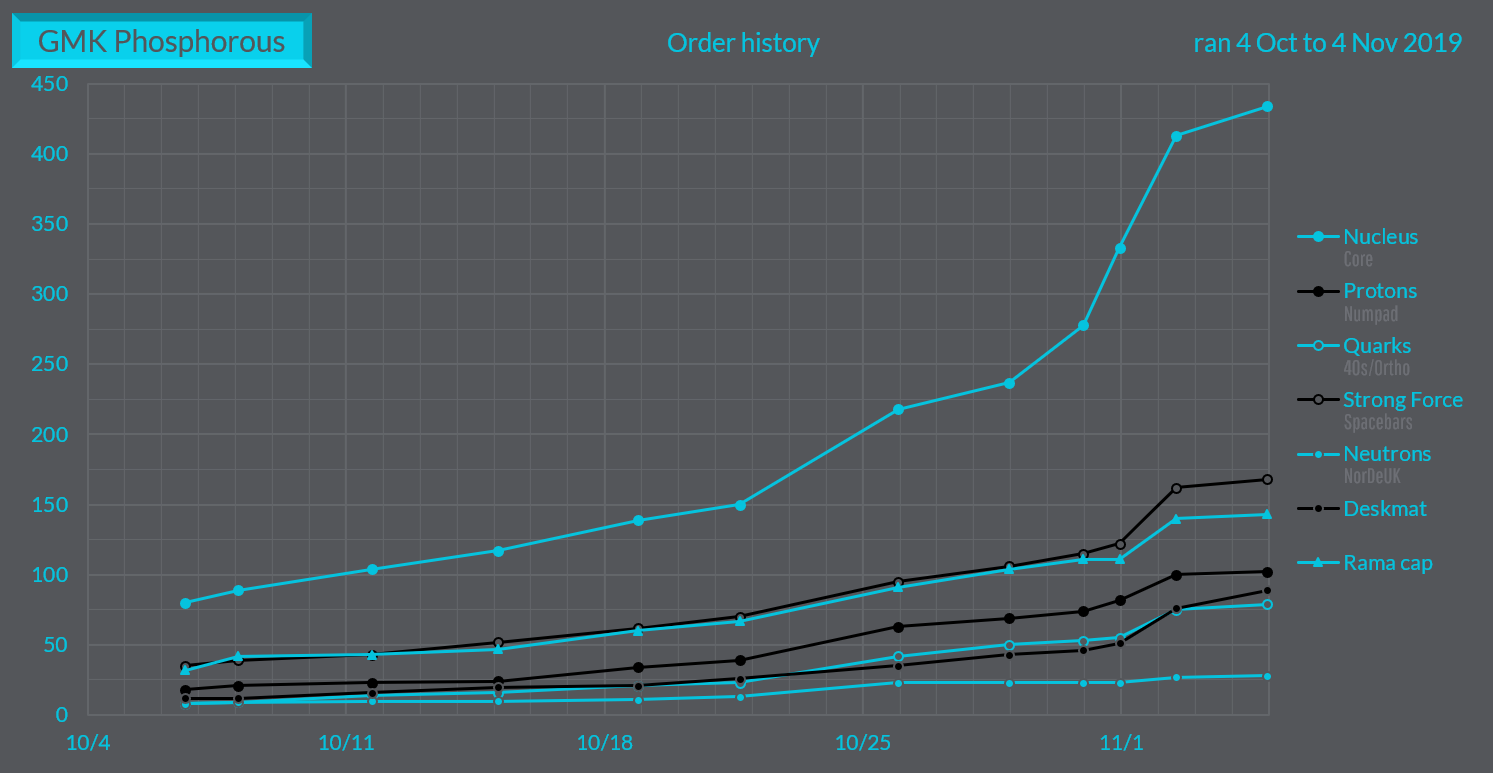
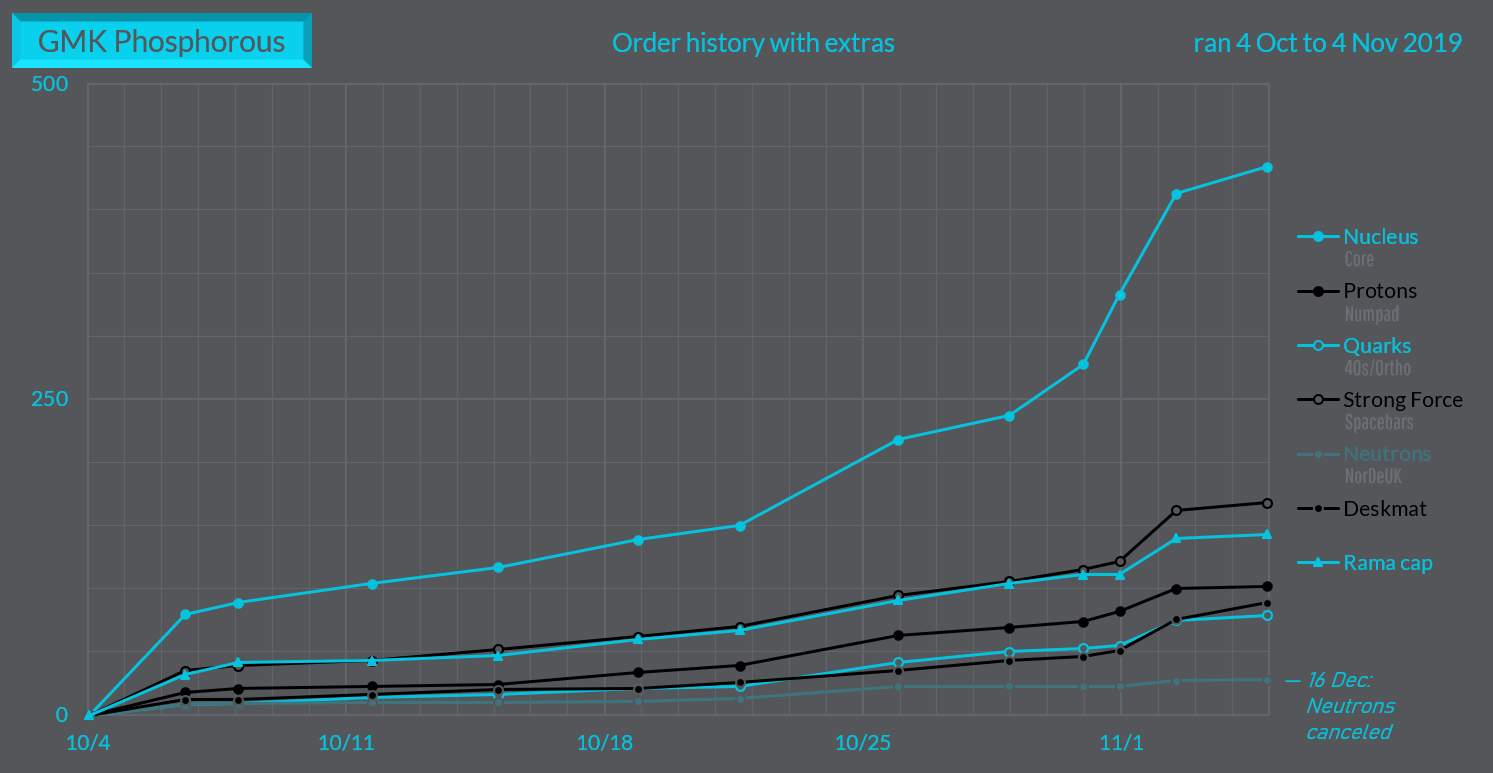
There are 5 files have been modified at 2020-09-28 12:26:14 . 	-rw-rw-r--. 1 jzou jzou 135866 Sep 17 12:56 assets/images/gmk-keycaps/phosphorous/history.png 	-rw-rw-r-- 1 jzou jzou 2064 Sep 28 12:23 docs/gmk-keycaps/Beta.md 	-rw-rw-r-- 1 jzou jzou 2444 Sep 28 12:21 docs/gmk-keycaps/Ishtar.md 	-rw-rw

diff --git a/docs/gmk-keycaps/Prepress.md b/docs/gmk-keycaps/Prepress.md
@@ -21,37 +21,39 @@ NOTE: USD to CNY exchange rate is 6.99
 
 | Name          | Price(GH)    |  Price(CNY) | Quantity |
 | ------------- | ------------ |  ---------- | -------- |
-|[Base](#base)|149.99|1048.43|Unknown|
-|[Separation](#separation)|49.99|349.43|Unknown|
-|[Poster Alphas](#poster-alphas)|69.99|489.23|Unknown|
-|[Novelties](#novelties)|59.99|419.33|Unknown|
-|[Tradition](#tradition)|34.99|244.58|Unknown|
-|[Overruns](#overruns)|29.99|209.63|Unknown|
+|[Base](#base)|149.99|1048.43|317|
+|[Separation](#separation)|49.99|349.43|166|
+|[Poster Alphas](#poster-alphas)|69.99|489.23|121|
+|[Novelties](#novelties)|59.99|419.33|172|
+|[Tradition](#tradition)|34.99|244.58|116|
+|[Overruns](#overruns)|29.99|209.63|107|
 
+<img src="{{ 'assets/images/gmk-keycaps/prepress/history.png' | relative_url }}" alt="history" class="image featured">
+<img src="{{ 'assets/images/gmk-keycaps/prepress/order.png' | relative_url }}" alt="order" class="image featured">
 
 ## Kits  
 ### Base  
-**Price(GH):** 149.99    **Price(CNY):** 1048.43    **Quantity:** Unknown  
+**Price(GH):** 149.99    **Price(CNY):** 1048.43    **Quantity:** 317  
 <img src="{{ 'assets/images/gmk-keycaps/prepress/kits_pics/base.jpg' | relative_url }}" alt="base" class="image featured">
 
 ### Separation  
-**Price(GH):** 49.99    **Price(CNY):** 349.43    **Quantity:** Unknown  
+**Price(GH):** 49.99    **Price(CNY):** 349.43    **Quantity:** 166  
 <img src="{{ 'assets/images/gmk-keycaps/prepress/kits_pics/separation.jpg' | relative_url }}" alt="separation" class="image featured">
 
 ### Poster Alphas  
-**Price(GH):** 69.99    **Price(CNY):** 489.23    **Quantity:** Unknown  
+**Price(GH):** 69.99    **Price(CNY):** 489.23    **Quantity:** 121  
 <img src="{{ 'assets/images/gmk-keycaps/prepress/kits_pics/poster-alphas.jpg' | relative_url }}" alt="poster-alphas" class="image featured">
 
 ### Novelties  
-**Price(GH):** 59.99    **Price(CNY):** 419.33    **Quantity:** Unknown  
+**Price(GH):** 59.99    **Price(CNY):** 419.33    **Quantity:** 172  
 <img src="{{ 'assets/images/gmk-keycaps/prepress/kits_pics/novelties.jpg' | relative_url }}" alt="novelties" class="image featured">
 
 ### Tradition  
-**Price(GH):** 34.99    **Price(CNY):** 244.58    **Quantity:** Unknown  
+**Price(GH):** 34.99    **Price(CNY):** 244.58    **Quantity:** 116  
 <img src="{{ 'assets/images/gmk-keycaps/prepress/kits_pics/tradition.jpg' | relative_url }}" alt="tradition" class="image featured">
 
 ### Overruns  
-**Price(GH):** 29.99    **Price(CNY):** 209.63    **Quantity:** Unknown  
+**Price(GH):** 29.99    **Price(CNY):** 209.63    **Quantity:** 107  
 <img src="{{ 'assets/images/gmk-keycaps/prepress/kits_pics/overruns.jpg' | relative_url }}" alt="overruns" class="image featured">
 
 

diff --git a/docs/gmk-keycaps/Ishtar.md b/docs/gmk-keycaps/Ishtar.md
@@ -21,32 +21,34 @@ NOTE: USD to CNY exchange rate is 7.00
 
 | Name          | Price(GH)    |  Price(CNY) | Quantity |
 | ------------- | ------------ |  ---------- | -------- |
-|[Base](#base)|144.99|1014.93|Unknown|
-|[Kuro](#kuro)|74.99|524.93|Unknown|
-|[Tengoku](#tengoku)|26.99|188.93|Unknown|
-|[Novelties](#novelties)|49.99|349.93|Unknown|
-|[RAMA](#rama)|56.00|392.00|Unknown|
+|[Base](#base)|144.99|1014.93|1021|
+|[Kuro](#kuro)|74.99|524.93|184|
+|[Tengoku](#tengoku)|26.99|188.93|258|
+|[Novelties](#novelties)|49.99|349.93|506|
+|[RAMA](#rama)|56.00|392.00|253|
 
+<img src="{{ 'assets/images/gmk-keycaps/ishtar/history.png' | relative_url }}" alt="history" class="image featured">
+<img src="{{ 'assets/images/gmk-keycaps/ishtar/order.png' | relative_url }}" alt="order" class="image featured">
 
 ## Kits  
 ### Base  
-**Price(GH):** 144.99    **Price(CNY):** 1014.93    **Quantity:** Unknown  
+**Price(GH):** 144.99    **Price(CNY):** 1014.93    **Quantity:** 1021  
 <img src="{{ 'assets/images/gmk-keycaps/ishtar/kits_pics/base.jpg' | relative_url }}" alt="base" class="image featured">
 
 ### Kuro  
-**Price(GH):** 74.99    **Price(CNY):** 524.93    **Quantity:** Unknown  
+**Price(GH):** 74.99    **Price(CNY):** 524.93    **Quantity:** 184  
 <img src="{{ 'assets/images/gmk-keycaps/ishtar/kits_pics/kuro.jpg' | relative_url }}" alt="kuro" class="image featured">
 
 ### Tengoku  
-**Price(GH):** 26.99    **Price(CNY):** 188.93    **Quantity:** Unknown  
+**Price(GH):** 26.99    **Price(CNY):** 188.93    **Quantity:** 258  
 <img src="{{ 'assets/images/gmk-keycaps/ishtar/kits_pics/tengoku.jpg' | relative_url }}" alt="tengoku" class="image featured">
 
 ### Novelties  
-**Price(GH):** 49.99    **Price(CNY):** 349.93    **Quantity:** Unknown  
+**Price(GH):** 49.99    **Price(CNY):** 349.93    **Quantity:** 506  
 <img src="{{ 'assets/images/gmk-keycaps/ishtar/kits_pics/novelties.jpg' | relative_url }}" alt="novelties" class="image featured">
 
 ### RAMA  
-**Price(GH):** 56.00    **Price(CNY):** 392.00    **Quantity:** Unknown  
+**Price(GH):** 56.00    **Price(CNY):** 392.00    **Quantity:** 253  
 <img src="{{ 'assets/images/gmk-keycaps/ishtar/kits_pics/rama.jpg' | relative_url }}" alt="rama" class="image featured">
 
 

diff --git a/docs/gmk-keycaps/OG-Spacekeys-R2.md b/docs/gmk-keycaps/OG-Spacekeys-R2.md
@@ -21,23 +21,24 @@ NOTE: USD to CNY exchange rate is 6.97
 
 | Name          | Price(GH)    |  Price(CNY) | Quantity |
 | ------------- | ------------ |  ---------- | -------- |
-|[CCN9](#ccn9)|25.00|174.25|Unknown|
-|[CPCR](#cpcr)|25.00|174.25|Unknown|
-|[L9U9](#l9u9)|25.00|174.25|Unknown|
-|ALL above 3|69.00|480.93|Unknown|
+|[CCN9](#ccn9)|25.00|174.25|500|
+|[CPCR](#cpcr)|25.00|174.25|615|
+|[L9U9](#l9u9)|25.00|174.25|500|
 
+<img src="{{ 'assets/images/gmk-keycaps/ogspacekeysr2/history.png' | relative_url }}" alt="history" class="image featured">
+<img src="{{ 'assets/images/gmk-keycaps/ogspacekeysr2/order.png' | relative_url }}" alt="order" class="image featured">
 
 ## Kits  
 ### CCN9  
-**Price(GH):** 25.00    **Price(CNY):** 174.25    **Quantity:** Unknown  
+**Price(GH):** 25.00    **Price(CNY):** 174.25    **Quantity:** 500  
 <img src="{{ 'assets/images/gmk-keycaps/ogspacekeysr2/kits_pics/ccn9.png' | relative_url }}" alt="ccn9" class="image featured">
 
 ### CPCR  
-**Price(GH):** 25.00    **Price(CNY):** 174.25    **Quantity:** Unknown  
+**Price(GH):** 25.00    **Price(CNY):** 174.25    **Quantity:** 615  
 <img src="{{ 'assets/images/gmk-keycaps/ogspacekeysr2/kits_pics/cpcr.png' | relative_url }}" alt="cpcr" class="image featured">
 
 ### L9U9  
-**Price(GH):** 25.00    **Price(CNY):** 174.25    **Quantity:** Unknown  
+**Price(GH):** 25.00    **Price(CNY):** 174.25    **Quantity:** 500  
 <img src="{{ 'assets/images/gmk-keycaps/ogspacekeysr2/kits_pics/l9u9.png' | relative_url }}" alt="l9u9" class="image featured">
 
 
@@ -45,7 +46,7 @@ NOTE: USD to CNY exchange rate is 6.97
 * Designer: hineybush  
 * Profile: GMK R4  
 * GB Time: 2020-08-04 ~ 2020-09-04  
-* Color Codes: 
+* Color Codes:
 |Base Color
 | :-------------:
 |L9

diff --git a/docs/gmk-keycaps/Beta.md b/docs/gmk-keycaps/Beta.md
@@ -21,22 +21,24 @@ NOTE: USD to CNY exchange rate is 6.87
 
 | Name          | Price(GH)    |  Price(CNY) | Quantity |
 | ------------- | ------------ |  ---------- | -------- |
-|[Beta Base](#beta-base)|138.00|948.06|Unknown|
-|[JS Base](#js-base)|138.00|948.06|Unknown|
-|[RAMA](#rama)|38.00|261.06|Unknown|
+|[Beta Base](#beta-base)|138.00|948.06|501|
+|[JS Base](#js-base)|138.00|948.06|1083|
+|[RAMA](#rama)|38.00|261.06|366|
 
+<img src="{{ 'assets/images/gmk-keycaps/beta/history.png' | relative_url }}" alt="history" class="image featured">
+<img src="{{ 'assets/images/gmk-keycaps/beta/order.png' | relative_url }}" alt="order" class="image featured">
 
 ## Kits  
 ### Beta Base  
-**Price(GH):** 138.00    **Price(CNY):** 948.06    **Quantity:** Unknown  
+**Price(GH):** 138.00    **Price(CNY):** 948.06    **Quantity:** 501  
 <img src="{{ 'assets/images/gmk-keycaps/beta/kits_pics/beta-base.jpg' | relative_url }}" alt="beta-base" class="image featured">
 
 ### JS Base  
-**Price(GH):** 138.00    **Price(CNY):** 948.06    **Quantity:** Unknown  
+**Price(GH):** 138.00    **Price(CNY):** 948.06    **Quantity:** 1083  
 <img src="{{ 'assets/images/gmk-keycaps/beta/kits_pics/js-base.jpg' | relative_url }}" alt="js-base" class="image featured">
 
 ### RAMA  
-**Price(GH):** 38.00    **Price(CNY):** 261.06    **Quantity:** Unknown  
+**Price(GH):** 38.00    **Price(CNY):** 261.06    **Quantity:** 366  
 <img src="{{ 'assets/images/gmk-keycaps/beta/kits_pics/rama.png' | relative_url }}" alt="rama" class="image featured">
 
 
